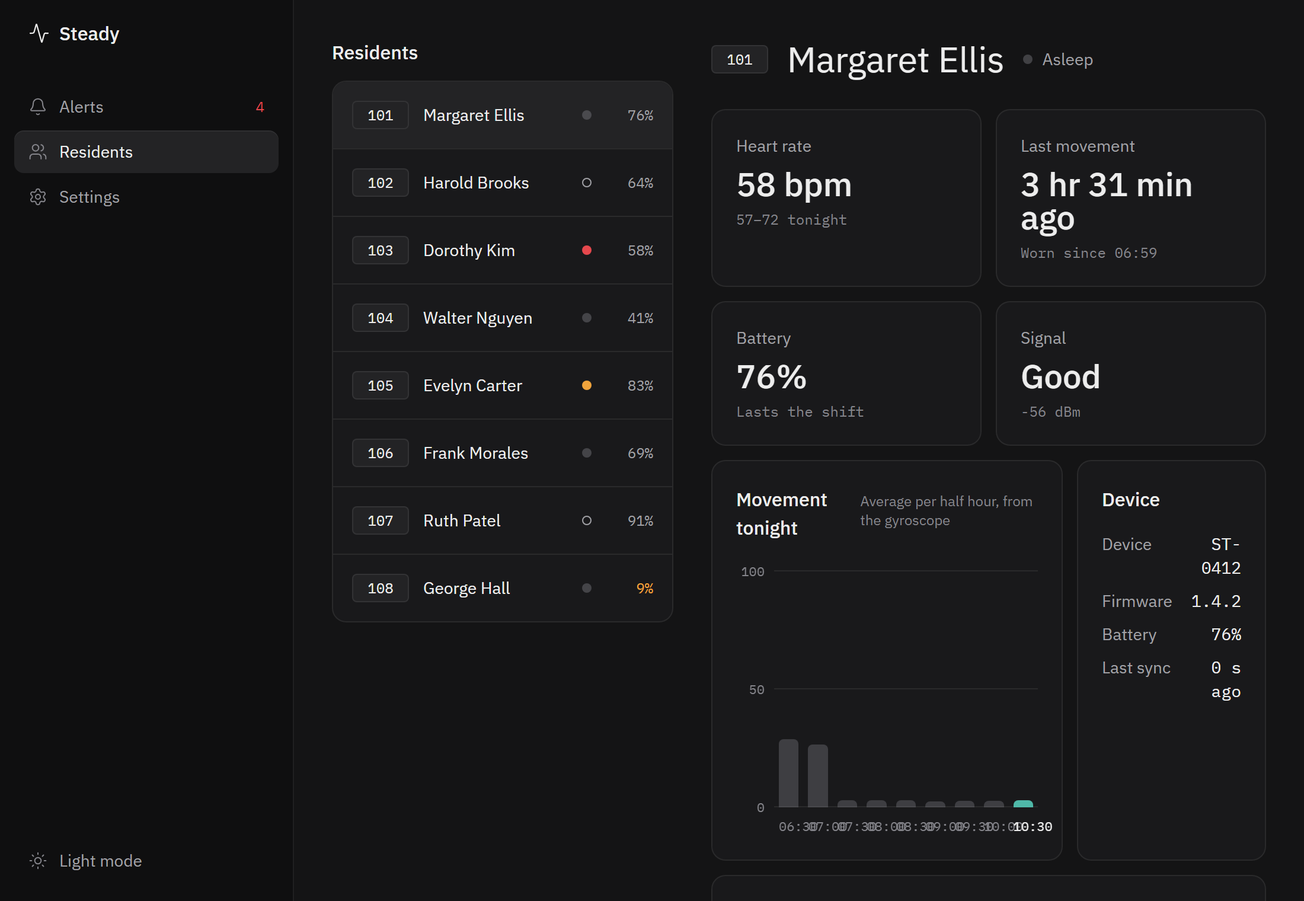
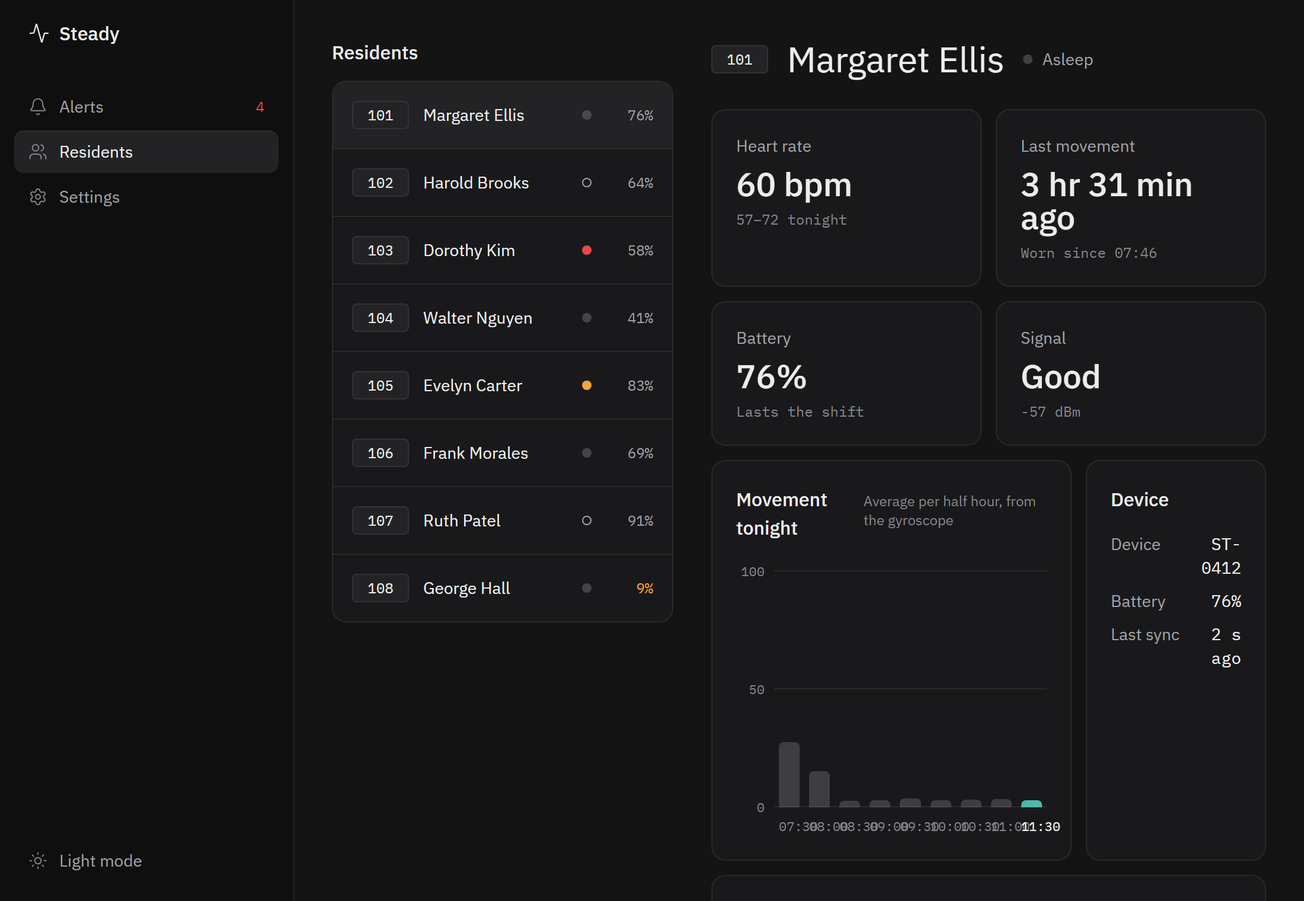
Add product features, detection rules and FAQ from the latest repo
Rewrites the triage section to match the current build (button press resolves a fall), drops the NFC claims, and adds features, how a fall is detected, where the data goes, and an FAQ. Refreshes the dashboard screenshots.

diff --git a/index.html b/index.html
@@ -4,7 +4,7 @@
 <meta charset="utf-8">
 <meta name="viewport" content="width=device-width, initial-scale=1">
 <title>Steady: care-home fall triage</title>
-<meta name="description" content="Steady is a fall-detection wearable and a night-shift dashboard for care homes. It shortens the wait between a fall and a person at the bedside, and sorts every fall by urgency.">
+<meta name="description" content="Steady is a fall-detection wearable and a night-shift dashboard for care homes. It shortens the wait between a fall and a person at the bedside, and ranks every fall by urgency.">
 <meta name="theme-color" content="#0f0f10">
 <meta property="og:type" content="website">
 <meta property="og:title" content="Steady: care-home fall triage">
@@ -45,7 +45,6 @@
   a { color: inherit; }
   img { max-width: 100%; height: auto; display: block; }
   .wrap { width: min(1080px, 100% - 32px); margin-inline: auto; }
-  .mono { font-family: var(--mono); }
   .kicker {
     font-family: var(--mono);
     font-size: 13px;
@@ -60,6 +59,8 @@
   section { padding: 84px 0; border-top: 1px solid var(--line); }
   .lede { color: var(--fg-2); max-width: 62ch; font-size: 18px; }
   .src { font-family: var(--mono); font-size: 12.5px; color: var(--fg-3); margin-top: 18px; }
+  .fine { margin-top: 18px; color: var(--fg-2); }
+  code, .mono { font-family: var(--mono); font-size: .88em; }
 
   /* nav */
   .nav {
@@ -100,13 +101,18 @@
   /* cards */
   .grid { display: grid; gap: 14px; }
   .grid.three { grid-template-columns: repeat(3, 1fr); }
+  .grid.two { grid-template-columns: repeat(2, 1fr); }
   .card { background: var(--raised); border: 1px solid var(--line); border-radius: 14px; padding: 22px; }
   .stat { font-family: var(--mono); font-size: 52px; line-height: 1; color: var(--fg); margin-bottom: 12px; }
   .card p { margin: 0; color: var(--fg-2); font-size: 16px; }
+  .card p + p { margin-top: 10px; }
   .quote {
     margin-top: 26px; font-size: clamp(20px, 2.6vw, 26px); font-weight: 500;
     padding-left: 18px; border-left: 3px solid var(--red);
   }
+  .tagline { font-family: var(--mono); font-size: 12px; color: var(--teal); letter-spacing: .06em; text-transform: uppercase; white-space: nowrap; }
+  .tagline.amber { color: var(--amber); }
+  .card h3 { display: flex; align-items: baseline; justify-content: space-between; gap: 12px; }
 
   /* comparison */
   .compare { margin-top: 30px; border: 1px solid var(--line); border-radius: 14px; overflow: hidden; }
@@ -147,34 +153,55 @@
     margin-right: -2px;
   }
   .triage { display: grid; grid-template-columns: .8fr 1.5fr 1.5fr .9fr; gap: 14px 30px; align-items: center; }
-  .triage .fall { grid-row: 1 / span 3; }
-  .triage .close { grid-row: 1 / span 3; grid-column: 4; }
+  .triage .fall { grid-row: 1 / span 2; }
+  .triage .close { grid-row: 1 / span 2; grid-column: 4; }
   .triage .cause { grid-column: 2; } .triage .tier { grid-column: 3; }
-  .steps { margin-top: 28px; display: grid; grid-template-columns: repeat(3, 1fr); gap: 14px; }
+  .steps { margin-top: 28px; display: grid; grid-template-columns: repeat(3, 1fr); gap: 14px; counter-reset: s; }
   .step { counter-increment: s; }
   .step::before { content: counter(s, decimal-leading-zero); font-family: var(--mono); color: var(--teal); font-size: 14px; display: block; margin-bottom: 8px; }
-  .steps { counter-reset: s; }
+
+  /* features */
+  .feat { margin-top: 30px; display: grid; grid-template-columns: repeat(3, 1fr); gap: 14px; }
+  .feat .card h3 { display: block; margin-bottom: 8px; }
+  .feat .card .tag-s { display: inline-block; margin-bottom: 10px; font-family: var(--mono); font-size: 11.5px; letter-spacing: .1em; text-transform: uppercase; color: var(--teal); }
+  .feat .card .tag-s.amber { color: var(--amber); }
 
   /* product shots */
-  .shots { margin-top: 34px; display: grid; grid-template-columns: 1.25fr 1fr; gap: 18px; align-items: start; }
+  .shots { margin-top: 34px; display: grid; grid-template-columns: 1fr 1fr; gap: 22px 18px; align-items: start; }
   figure { margin: 0; }
   .frame { border: 1px solid var(--line); border-radius: 14px; overflow: hidden; background: var(--raised); box-shadow: 0 18px 50px rgba(0,0,0,.45); }
   .frame .bar { display: flex; gap: 7px; padding: 10px 14px; border-bottom: 1px solid var(--line); background: var(--bg); }
   .frame .bar i { width: 10px; height: 10px; border-radius: 50%; background: var(--line); }
   figcaption { margin-top: 10px; font-size: 14px; color: var(--fg-3); }
 
-  /* hardware */
-  .specs { margin-top: 30px; display: grid; grid-template-columns: repeat(2, 1fr); gap: 14px; }
-  .specs .card h3 { display: flex; align-items: baseline; justify-content: space-between; gap: 12px; }
-  .tagline { font-family: var(--mono); font-size: 12px; color: var(--teal); letter-spacing: .06em; text-transform: uppercase; }
+  /* under the hood */
+  .rules { margin-top: 26px; border: 1px solid var(--line); border-radius: 14px; overflow: hidden; }
+  .rule { display: grid; grid-template-columns: 170px 1fr; gap: 20px; padding: 16px 22px; background: var(--raised); }
+  .rule + .rule { border-top: 1px solid var(--line); }
+  .rule b { font-family: var(--mono); font-weight: 500; font-size: 14px; color: var(--teal); }
+  .rule span { color: var(--fg-2); font-size: 16px; }
+  .chips { display: flex; flex-wrap: wrap; gap: 8px; margin-top: 14px; }
+  .chip { font-family: var(--mono); font-size: 13px; padding: 6px 12px; border-radius: 999px; border: 1px solid var(--line); background: var(--raised); color: var(--fg-2); }
+  .pre { margin-top: 12px; padding: 14px 18px; border: 1px solid var(--line); border-radius: 12px; background: #0b0b0c; font-family: var(--mono); font-size: 13.5px; color: var(--fg-2); overflow-x: auto; line-height: 1.7; }
+  .pre .k { color: var(--teal); }
 
   /* honest */
   .honest .card { border-top: 3px solid var(--teal); }
   .honest .card.sim { border-top-color: var(--amber); }
   .honest .card.not { border-top-color: var(--red); }
-  .honest .card h3 { font-family: var(--mono); font-size: 13px; letter-spacing: .12em; text-transform: uppercase; margin-bottom: 12px; }
+  .honest .card h3 { display: block; font-family: var(--mono); font-size: 13px; letter-spacing: .12em; text-transform: uppercase; margin-bottom: 12px; }
   .honest .card.real h3 { color: var(--teal); } .honest .card.sim h3 { color: var(--amber); } .honest .card.not h3 { color: var(--red); }
-  .fine { margin-top: 18px; color: var(--fg-2); }
+  .honest ul { margin: 0; padding-left: 18px; color: var(--fg-2); font-size: 16px; }
+  .honest li + li { margin-top: 6px; }
+
+  /* faq */
+  .faq { margin-top: 28px; border-top: 1px solid var(--line); }
+  details { border-bottom: 1px solid var(--line); padding: 4px 0; }
+  summary { cursor: pointer; list-style: none; padding: 16px 32px 16px 0; font-weight: 500; font-size: 18px; position: relative; }
+  summary::-webkit-details-marker { display: none; }
+  summary::after { content: "+"; position: absolute; right: 4px; top: 12px; font-family: var(--mono); font-size: 22px; color: var(--teal); }
+  details[open] summary::after { content: "–"; }
+  details p { color: var(--fg-2); margin: 0 0 18px; max-width: 70ch; }
 
   /* close */
   .closing { text-align: center; padding: 110px 0; }
@@ -192,14 +219,15 @@
   @media (max-width: 860px) {
     section { padding: 64px 0; }
     .links a.hide-m { display: none; }
-    .grid.three, .specs, .steps, .shots, footer .cols { grid-template-columns: 1fr; }
+    .grid.three, .grid.two, .feat, .steps, .shots, footer .cols { grid-template-columns: 1fr; }
     .claim { grid-template-columns: 1fr; }
     .row { grid-template-columns: 1fr; gap: 6px; }
     .row.head { display: none; }
-    .row .what::before, .row .gap::before { display: block; font-family: var(--mono); font-size: 11.5px; letter-spacing: .12em; text-transform: uppercase; color: var(--fg-3); }
+    .row .what::before, .row .gap::before, .row .data::before { display: block; font-family: var(--mono); font-size: 11.5px; letter-spacing: .12em; text-transform: uppercase; color: var(--fg-3); }
     .row .what::before { content: "Approach"; }
+    .row .data::before { content: "What the data says"; }
     .row .gap::before { content: "Gap it leaves"; }
-    .row .data::before { display: block; content: "What the data says"; font-family: var(--mono); font-size: 11.5px; letter-spacing: .12em; text-transform: uppercase; color: var(--fg-3); }
+    .rule { grid-template-columns: 1fr; gap: 4px; }
     .flow { grid-template-columns: 1fr; gap: 30px; }
     .flow .node:not(:last-child)::after { top: auto; bottom: -26px; right: 50%; width: 2px; height: 18px; }
     .flow .node:not(:last-child)::before { top: auto; bottom: -26px; right: calc(50% - 3px); margin: 0; transform: rotate(135deg); }
@@ -222,7 +250,7 @@
     <nav class="links" aria-label="Sections">
       <a class="hide-m" href="#problem">Problem</a>
       <a class="hide-m" href="#how">How it works</a>
-      <a class="hide-m" href="#product">Product</a>
+      <a class="hide-m" href="#features">Features</a>
       <a class="hide-m" href="#hardware">Hardware</a>
       <a class="hide-m" href="#limits">Honest limits</a>
       <a class="btn" href="https://github.com/Arshyi/Steady">GitHub</a>
@@ -240,7 +268,7 @@
     <p class="tag">Steady shortens the wait between a fall and a person at the bedside.</p>
     <div class="cta">
       <a class="btn primary" href="#how">See how it works</a>
-      <a class="btn" href="#product">See the dashboard</a>
+      <a class="btn" href="#features">See what it does</a>
     </div>
     <p class="src">Mayes et al., JAMDA 2026 · 212 falls</p>
   </div>
@@ -282,13 +310,12 @@
     <h2>Three claims, each measurable</h2>
     <div class="claims">
       <div class="claim"><div>83% of lone fallers never pressed the alarm.</div><div>The board detects the fall. 45 s of stillness raises the top tier by itself.</div></div>
-      <div class="claim"><div>72–99% of alarms are false, so staff delay or disable them.</div><div>Not another siren: every fall is sorted by urgency.</div></div>
-      <div class="claim"><div>An acknowledgement is treated as “handled”.</div><div>It drops to the lowest tier and still needs a visit. Only staff “Mark checked” closes it.</div></div>
+      <div class="claim"><div>72–99% of alarms are false, so staff delay or disable them.</div><div>Not another siren: every open fall is ranked by urgency.</div></div>
+      <div class="claim"><div>A fall that nobody confirms can quietly drop off a list.</div><div>A fall never closes on its own. Staff mark it checked, or a worker presses the wearable’s button at the bedside.</div></div>
     </div>
-    <div class="legend" aria-label="Urgency tiers, highest first">
+    <div class="legend" aria-label="Urgency of an open fall, highest first">
       <span class="pill"><i class="dot red"></i>No movement since the fall</span>
-      <span class="pill"><i class="dot amber"></i>Not acknowledged yet</span>
-      <span class="pill"><i class="dot teal"></i>Says they’re OK</span>
+      <span class="pill"><i class="dot amber"></i>No worker yet</span>
     </div>
     <p class="src">Tiers as the dashboard shows them, highest first</p>
   </div>
@@ -312,24 +339,36 @@
     <div class="triage">
       <div class="node grey fall"><b>Fall</b></div>
       <div class="node red cause"><b>Still 45 s</b></div><div class="node red tier"><b>No movement since the fall</b></div>
-      <div class="node amber cause"><b>No response</b></div><div class="node amber tier"><b>Not acknowledged yet</b></div>
-      <div class="node cause"><b>Button press</b></div><div class="node tier"><b>Says they’re OK</b></div>
-      <div class="node close"><b>Mark checked</b><small>staff close it</small></div>
+      <div class="node amber cause"><b>No worker yet</b></div><div class="node amber tier"><b>Needs a response</b></div>
+      <div class="node close"><b>Handled tonight</b><small>Mark checked, or a worker’s button press</small></div>
     </div>
 
     <div class="steps">
       <div class="card step"><h3>Detect</h3><p>The board watches for weightlessness, then a hard impact, then a change of posture, and decides on the device.</p></div>
-      <div class="card step"><h3>Rank</h3><p>Every fall lands on one Alerts list, highest urgency first. The highest tier wins even after a press: lying still matters more than pressing a button.</p></div>
-      <div class="card step"><h3>Close</h3><p>A fall stays until staff mark it checked on the dashboard, or tap an NFC tag at the bedside. “I’m OK” only moves it down the list.</p></div>
+      <div class="card step"><h3>Rank</h3><p>Every open fall sits on one Alerts list, highest urgency first. Movement has to come from the wearer’s own device, so demo data can’t clear the top tier.</p></div>
+      <div class="card step"><h3>Close</h3><p>A fall stays until staff click “Mark checked”, or a worker presses the button on the wearable. It then moves to “Handled tonight”, and Undo reopens it.</p></div>
     </div>
   </div>
 </section>
 
-<section id="product">
+<section id="features">
   <div class="wrap">
     <p class="kicker">Product</p>
-    <h2>One screen for the whole night shift</h2>
-    <p class="lede">Staff see who needs a response, who is asleep, and whose device needs attention. Each resident has a page with movement through the night.</p>
+    <h2>What Steady does</h2>
+    <p class="lede">One screen for the whole night shift, and a small device on each resident. Here is what the dashboard shows and what staff can do with it.</p>
+
+    <div class="feat">
+      <div class="card"><h3>The whole wing at a glance</h3><p>Every resident is shown as asleep, up, needs a check, or fallen, with the count at the top: “8 residents · 4 asleep · 2 up · 1 needs a check · 1 fall”.</p></div>
+      <div class="card"><h3>One Alerts list</h3><p>Falls, checks and device problems in urgency order, with tabs for All, Falls, Checks and Devices. Each has a clear action: Mark checked, Acknowledge or Done, and Undo if it was a mistake.</p></div>
+      <div class="card"><h3>A page for every resident</h3><p>Heart rate and tonight’s range, time since the last movement, battery, signal, and movement per half hour drawn from the gyroscope.</p></div>
+      <div class="card"><h3>Restlessness checks</h3><p>Someone who has been moving a lot for a sustained spell is flagged as “Restless for the last 20 min”, so staff can look in before it becomes a fall.</p></div>
+      <div class="card"><h3>Device health, before it’s missed</h3><p>Low battery, weak signal and a device that has stopped syncing each raise their own alert, so a flat wearable doesn’t look like a quiet resident.</p></div>
+      <div class="card"><span class="tag-s amber">Optional</span><h3>Staff accounts</h3><p>Staff log in through Auth0. A care home registers once, which creates its first administrator. Administrators invite caretakers by email, change roles and remove staff. Login is off until Auth0 is configured.</p></div>
+      <div class="card"><h3>Setup in the Settings page</h3><p>Pick Simulated or Live data, connect a wearable over Wi-Fi or USB, run a self-test (sending data, accelerometer reads gravity, gyroscope responds, fall detection fires), and pair the device to a resident.</p></div>
+      <div class="card"><h3>Demo a fall</h3><p>In Simulated mode, send a fall for any resident with one click, so the whole alert flow can be shown without hurting anyone or needing the hardware.</p></div>
+      <div class="card"><span class="tag-s amber">Experimental</span><h3>Room-level location</h3><p>Three presses on the wearable start survey mode, which fingerprints the Wi-Fi in a room so a device can later be placed in a room, not at an exact position. Scanning does not yet run on the board.</p></div>
+    </div>
+
     <div class="shots">
       <figure>
         <div class="frame"><div class="bar"><i></i><i></i><i></i></div><img src="assets/dashboard-alerts.png" width="2200" height="1520" alt="The Alerts page. A fall for room 103 is at the top with the badge No movement since the fall and a Mark checked button, above a check for room 105 and two device alerts." loading="lazy"></div>
@@ -339,6 +378,16 @@
         <div class="frame"><div class="bar"><i></i><i></i><i></i></div><img src="assets/dashboard-resident.png" width="2200" height="1520" alt="A resident page showing heart rate, time since last movement, battery, signal, and a movement chart for the night." loading="lazy"></div>
         <figcaption>Resident view: movement per half hour from the gyroscope, plus device health.</figcaption>
       </figure>
+      <figure>
+        <div class="frame"><div class="bar"><i></i><i></i><i></i></div><img src="assets/dashboard-settings.png" width="2200" height="1520" alt="The Settings page with a choice between Simulated and Live devices, a Demo a fall control, and buttons to connect a wearable over Wi-Fi or USB." loading="lazy"></div>
+        <figcaption>Settings: choose the data source, connect a wearable and pair it to a resident.</figcaption>
+      </figure>
+      <div class="card" style="align-self:stretch">
+        <h3>Try it without a board</h3>
+        <p>Switch Settings to <b>Simulated</b> and the server generates readings for every resident. Press <b>Demo a fall</b> to watch a fall arrive, get ranked and be closed.</p>
+        <p>No hardware? <b>Try a demo device</b> streams a built-in wearable so you can check the connection and the self-test.</p>
+        <div class="pre"><span class="k">npm</span> install<br><span class="k">npm</span> run dev</div>
+      </div>
     </div>
     <p class="src">Screenshots show Simulated mode. The residents, heart rate, battery and signal are demo values.</p>
   </div>
@@ -348,13 +397,37 @@
   <div class="wrap">
     <p class="kicker">Hardware</p>
     <h2>A real board and a real sensor</h2>
-    <div class="specs">
+    <div class="grid two" style="margin-top:30px">
       <div class="card"><h3>Arduino UNO Q <span class="tagline">Board</span></h3><p>Runs the fall detector on the device itself, not in the cloud. It has Wi-Fi, 4 GB of RAM and 32 GB of storage on board.</p></div>
-      <div class="card"><h3>MPU6050 <span class="tagline">Sensor</span></h3><p>A real accelerometer and gyroscope, read over I2C at 200 Hz so a landing spike is not missed between samples.</p></div>
-      <div class="card"><h3>USB or Wi-Fi <span class="tagline">Link</span></h3><p>Readings reach the dashboard over USB serial, or through a relay app on the board over the network.</p></div>
-      <div class="card"><h3>Button and NFC <span class="tagline">Acknowledge</span></h3><p>One press says “I’m OK”. A staff tap on an NFC tag records a visit. Neither one hides the fall.</p></div>
+      <div class="card"><h3>MPU6050 <span class="tagline">Sensor</span></h3><p>A real accelerometer and gyroscope, read over I2C and checked every 5 ms so a landing spike is not missed between samples. It connects to the board with just a few wires: power, ground, data and clock.</p></div>
+      <div class="card"><h3>USB or Wi-Fi <span class="tagline">Link</span></h3><p>Over USB the dashboard reads the board straight from the browser (Chrome or Edge). Over Wi-Fi, a relay app on the board streams readings to the dashboard and posts one-second summaries to the server. The relay has been run on the board, streaming about 48 samples a second.</p></div>
+      <div class="card"><h3>One button <span class="tagline">Acknowledge</span></h3><p>One press by a worker at the bedside confirms they responded and resolves the open fall. Three presses start survey mode. Two presses are ignored as a fumbled double tap.</p></div>
     </div>
     <p class="fine">Open source. Firmware, relay, server and dashboard are all in the <a href="https://github.com/Arshyi/Steady">GitHub repository</a>.</p>
+  </div>
+</section>
+
+<section id="tech">
+  <div class="wrap">
+    <p class="kicker">Under the hood</p>
+    <h2>How a fall is detected</h2>
+    <p class="lede">The rules run on the board and were tested on deliberate drops. They look for the shape of a fall, not just a bump.</p>
+    <div class="rules">
+      <div class="rule"><b>Weightless</b><span>The total acceleration drops below 0.60 g, which means nothing is holding the wearer up.</span></div>
+      <div class="rule"><b>Impact</b><span>Then a spike over 1.8 g within 1.2 seconds of that.</span></div>
+      <div class="rule"><b>Settle</b><span>After 250 ms for the bounce to die down, the board checks the result.</span></div>
+      <div class="rule"><b>Confirm</b><span>A posture change of 40° or more confirms the fall. An impact of 3.0 g or more counts even if it lands flat.</span></div>
+      <div class="rule"><b>Soft drops</b><span>A soft drop that lands flat is not counted.</span></div>
+    </div>
+    <p class="fine">The sensor is read over a ±8 g range every 5 ms. The alert tells staff what the device measured, for example “Fall detected by the device: peak 2.2 g, posture change 89°”.</p>
+
+    <h2 style="margin-top:54px">Where the data goes</h2>
+    <div class="grid two" style="margin-top:24px">
+      <div class="card"><h3>From board to dashboard</h3><p>The board sends plain text lines: its id and firmware, battery, one motion sample (acceleration in g, rotation in degrees a second), a fall with its peak and tilt, and a worker’s button press. Two example lines:</p><div class="pre"><span class="k">M</span>,0.021,-0.004,1.003,0.4,-0.2,0.1<br><span class="k">F</span>,2.2,89,90</div></div>
+      <div class="card"><h3>The server</h3><p>Batches of 10 to 200 samples a second are folded into one reading per second for the dashboard. The server keeps readings, alerts and pairings in a local store, or in Databricks when it is configured. A device token can protect the uplink.</p></div>
+      <div class="card"><h3>The Worker</h3><p>A separate Cloudflare Worker with a D1 database handles device ingest, server-side fall analysis and the Wi-Fi survey store. Ingest is idempotent, so a resent sample doesn’t count twice. Samples are kept for 30 days.</p></div>
+      <div class="card"><h3>The stack</h3><p>Every piece is open source and in one repository.</p><div class="chips"><span class="chip">Arduino UNO Q</span><span class="chip">MPU6050</span><span class="chip">Zephyr sketch</span><span class="chip">Python relay</span><span class="chip">WebSocket</span><span class="chip">Node server</span><span class="chip">React + Vite</span><span class="chip">Databricks</span><span class="chip">Cloudflare Workers + D1</span><span class="chip">Auth0</span></div></div>
+    </div>
   </div>
 </section>
 
@@ -363,12 +436,28 @@
     <p class="kicker">Viability</p>
     <h2>Real hardware, honest limits</h2>
     <div class="grid three" style="margin-top:28px">
-      <div class="card real"><h3>Real today</h3><p>MPU6050 on the UNO Q, fall detection on the board (verified with drops), readings to dashboard to alerts, pairing, Wi-Fi relay, three-tier triage.</p></div>
-      <div class="card sim"><h3>Simulated, and labelled</h3><p>Heart rate, battery, signal, and the other residents, shown only in Simulated mode.</p></div>
-      <div class="card not"><h3>Not proven yet</h3><p>Detection tuned on drops, not people. Databricks not run end to end. The dashboard API is open unless Auth0 staff login is configured.</p></div>
+      <div class="card real"><h3>Real today</h3><ul><li>MPU6050 on the UNO Q.</li><li>Fall detection on the board, tested with drops.</li><li>Readings to dashboard to alerts, pairing.</li><li>USB link, and a Wi-Fi relay streamed from the board.</li><li>Urgency ranking of open falls.</li></ul></div>
+      <div class="card sim"><h3>Simulated, and labelled</h3><ul><li>Heart rate, battery and signal.</li><li>The other residents, shown only in Simulated mode.</li><li>Live mode lists only residents with a paired wearable.</li></ul></div>
+      <div class="card not"><h3>Not proven yet</h3><ul><li>Detection is tuned on drops, not on people.</li><li>Databricks has not run end to end.</li><li>Staff login is optional and off by default.</li><li>No retention or export policy for server data.</li><li>Wi-Fi room scanning does not yet run on the board.</li></ul></div>
     </div>
     <p class="fine">A threshold, not a certified detector. No measured false-positive rate yet.</p>
-    <p class="fine"><b>Next:</b> label real falls and measure false positives, then a staff bedside tap that records a visit.</p>
+    <p class="fine"><b>Next:</b> label real falls and measure false positives, then decide board placement, battery, enclosure and data retention.</p>
+  </div>
+</section>
+
+<section id="faq">
+  <div class="wrap">
+    <p class="kicker">Questions</p>
+    <h2>Questions people ask</h2>
+    <div class="faq">
+      <details><summary>Does it replace night staff?</summary><p>No. It tells staff who to see first. The point is to shorten the time between a fall and a person arriving, not to remove the person.</p></details>
+      <details><summary>What if the resident can’t press anything?</summary><p>They don’t need to. The wearable detects the fall itself. If nobody has moved for 45 seconds after the fall, it moves to the top of the list on its own.</p></details>
+      <details><summary>Can an alert disappear by itself?</summary><p>No. A fall stays on the Alerts page until staff click Mark checked or a worker presses the button on the wearable. Undo reopens it if it was a mistake.</p></details>
+      <details><summary>What does it measure?</summary><p>Movement from an accelerometer and gyroscope. Heart rate, battery and signal are shown in the dashboard but are simulated for now.</p></details>
+      <details><summary>Who can see resident data?</summary><p>Staff who log in, once Auth0 is configured: each care home has its own administrators and caretakers. Without it the dashboard is open, so it should only be used with demo data on a trusted network.</p></details>
+      <details><summary>Is it a medical device?</summary><p>No. It is a hackathon prototype and must not be relied on to detect falls or to replace care staff. The fall detector is a threshold, not a certified detector.</p></details>
+      <details><summary>Can I try it?</summary><p>Yes. It is open source. Run <code>npm install</code> then <code>npm run dev</code> and switch Settings to Simulated, no board needed. The <a href="https://github.com/Arshyi/Steady">GitHub repository</a> has the instructions.</p></details>
+    </div>
   </div>
 </section>
 
